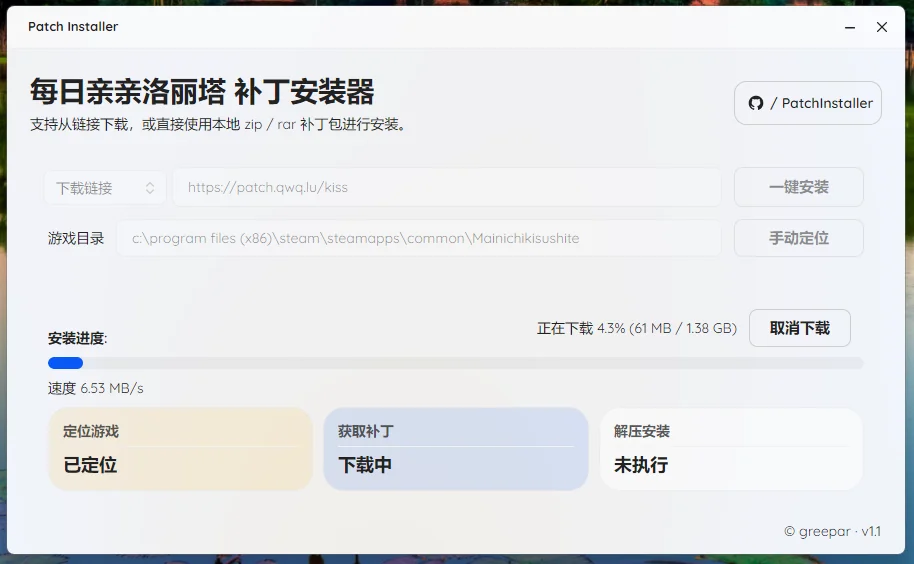
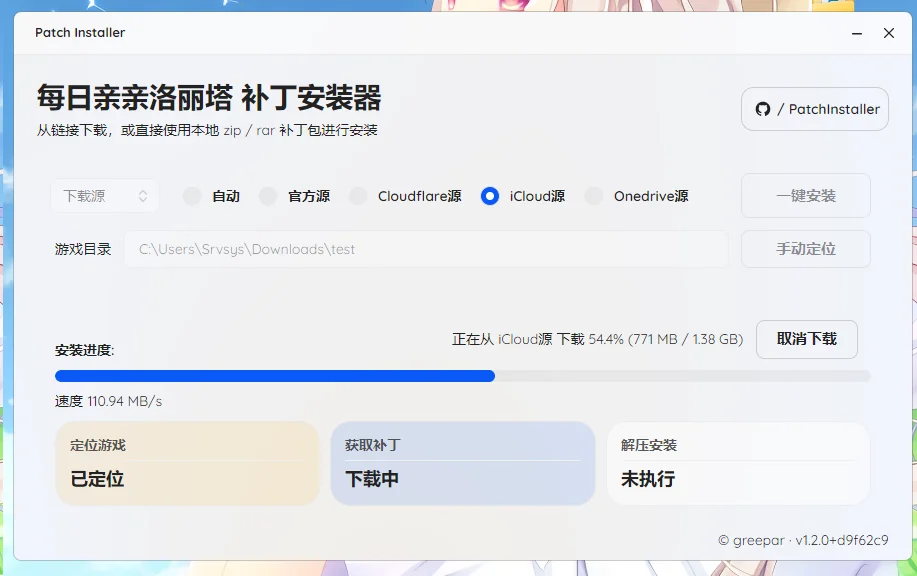
Refine packaging workflow and demo assets

diff --git a/README.md b/README.md
@@ -143,28 +143,6 @@ dotnet publish .\PatchInstaller\PatchInstaller.csproj -c Release -r win-x64
 
 如果配置了默认链接，程序可以直接从默认地址下载并安装。
 
-如果只配置了 1 个内置链接：
-- 界面会直接显示这个链接
-- 这个输入框为只读，不能修改
-- 如果需要手动填写其他地址，请切换到“下载链接”
-
-如果配置了多个链接：
-- 可用 `;` 分隔
-- 每项既可以写纯链接，也可以写成 `名称|链接`
-- 界面会显示“下载源”选项，并横向显示源选择器
-- 会额外提供一个默认选中的“自动”选项
-- 选择“自动”时，会按你填写的顺序依次尝试下载
-- 第一个源失败后，会自动 fallback 到下一个源
-- 下载状态会显示当前正在使用的源名称
-
-示例：
-`主源|https://a.com/patch.zip;Cloudflare源|https://b.com/patch.zip;iCloud源|https://c.com/patch.zip`
-
-如果 `DefaultPatchUrl` 为空：
-- 界面不会显示“下载源”
-- 下拉框里只保留“下载链接”和“本地补丁”
-- “下载链接”就是普通可编辑输入框
-
 ### 临时文件
 
 - 下载和解压工作目录：`%TEMP%\PatchInstaller`
